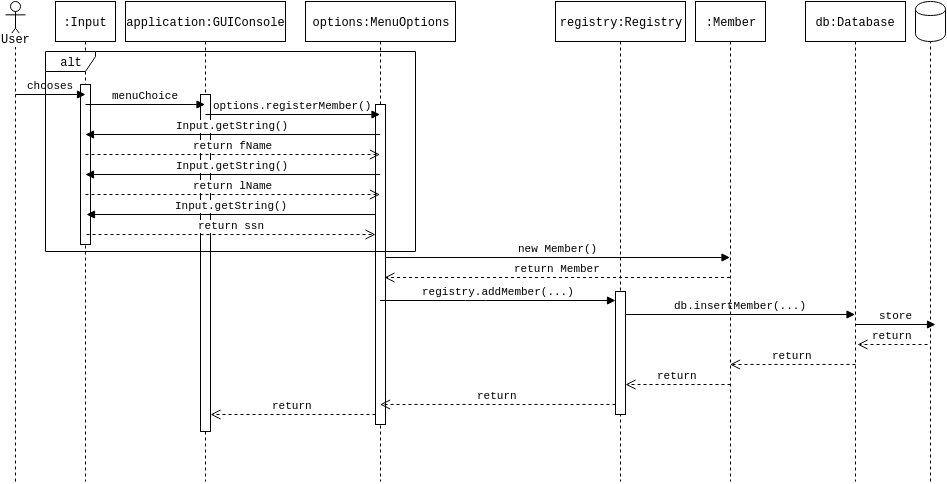
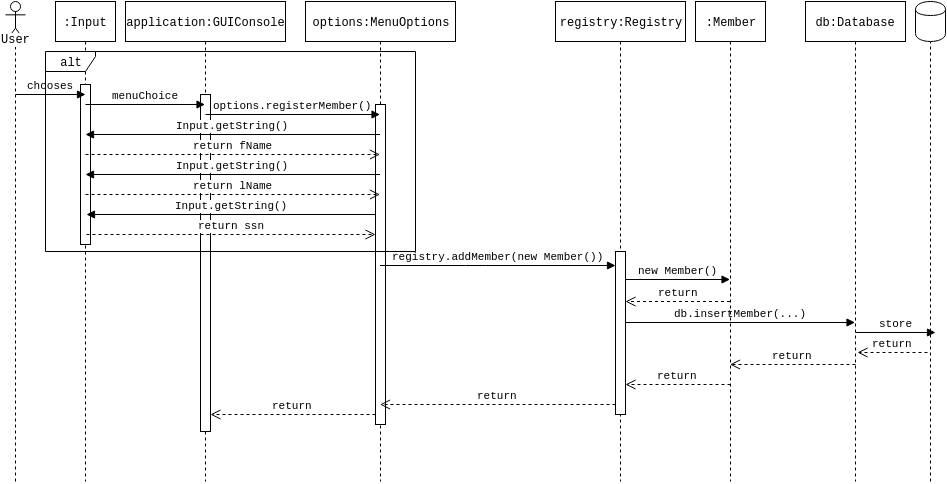
Re-correcting sequence diagram.

Changed region(s): [[0.3981, 0.4959, 0.8574, 0.6818], [0.8881, 0.6508, 1.0, 0.7438], [0.4593, 0.5888, 0.5818, 0.6198]]

diff --git a/workshop-2/README.md b/workshop-2/README.md
@@ -34,7 +34,9 @@ Enjoy!
 
 ## Grade 2 - Final Submission
 
-We decided...
+We decided to update our Database model, as pointed out by one peer review. There was alot of duplicated SQL strings there, and the update also removed dependancies between `Database` and the `Member`and `Boat` models.
+
+We also updated the sequence diagrams to this new `Database` API.
 
 ### Diagrams
 
